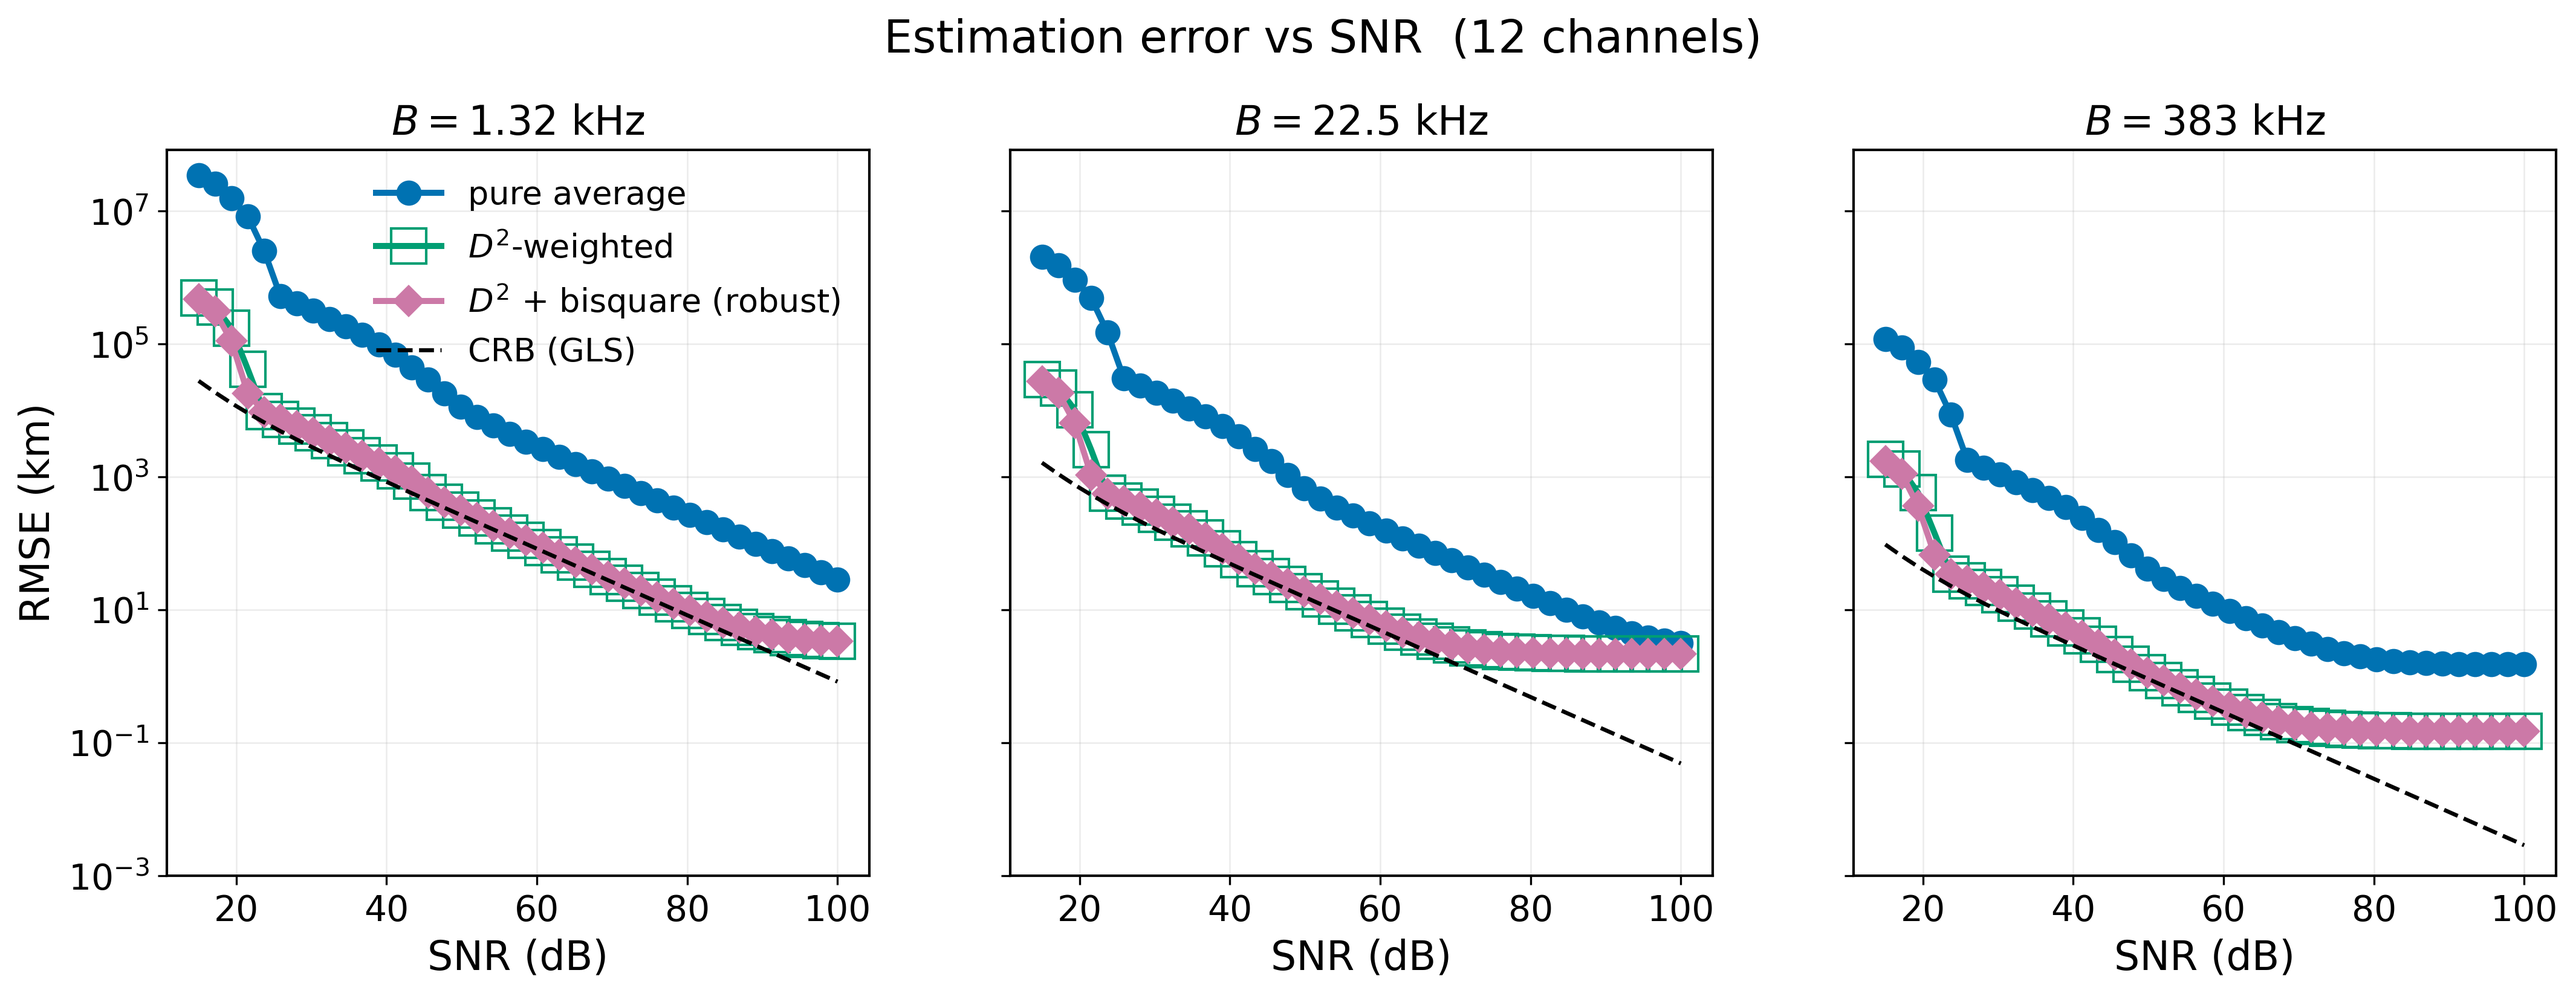
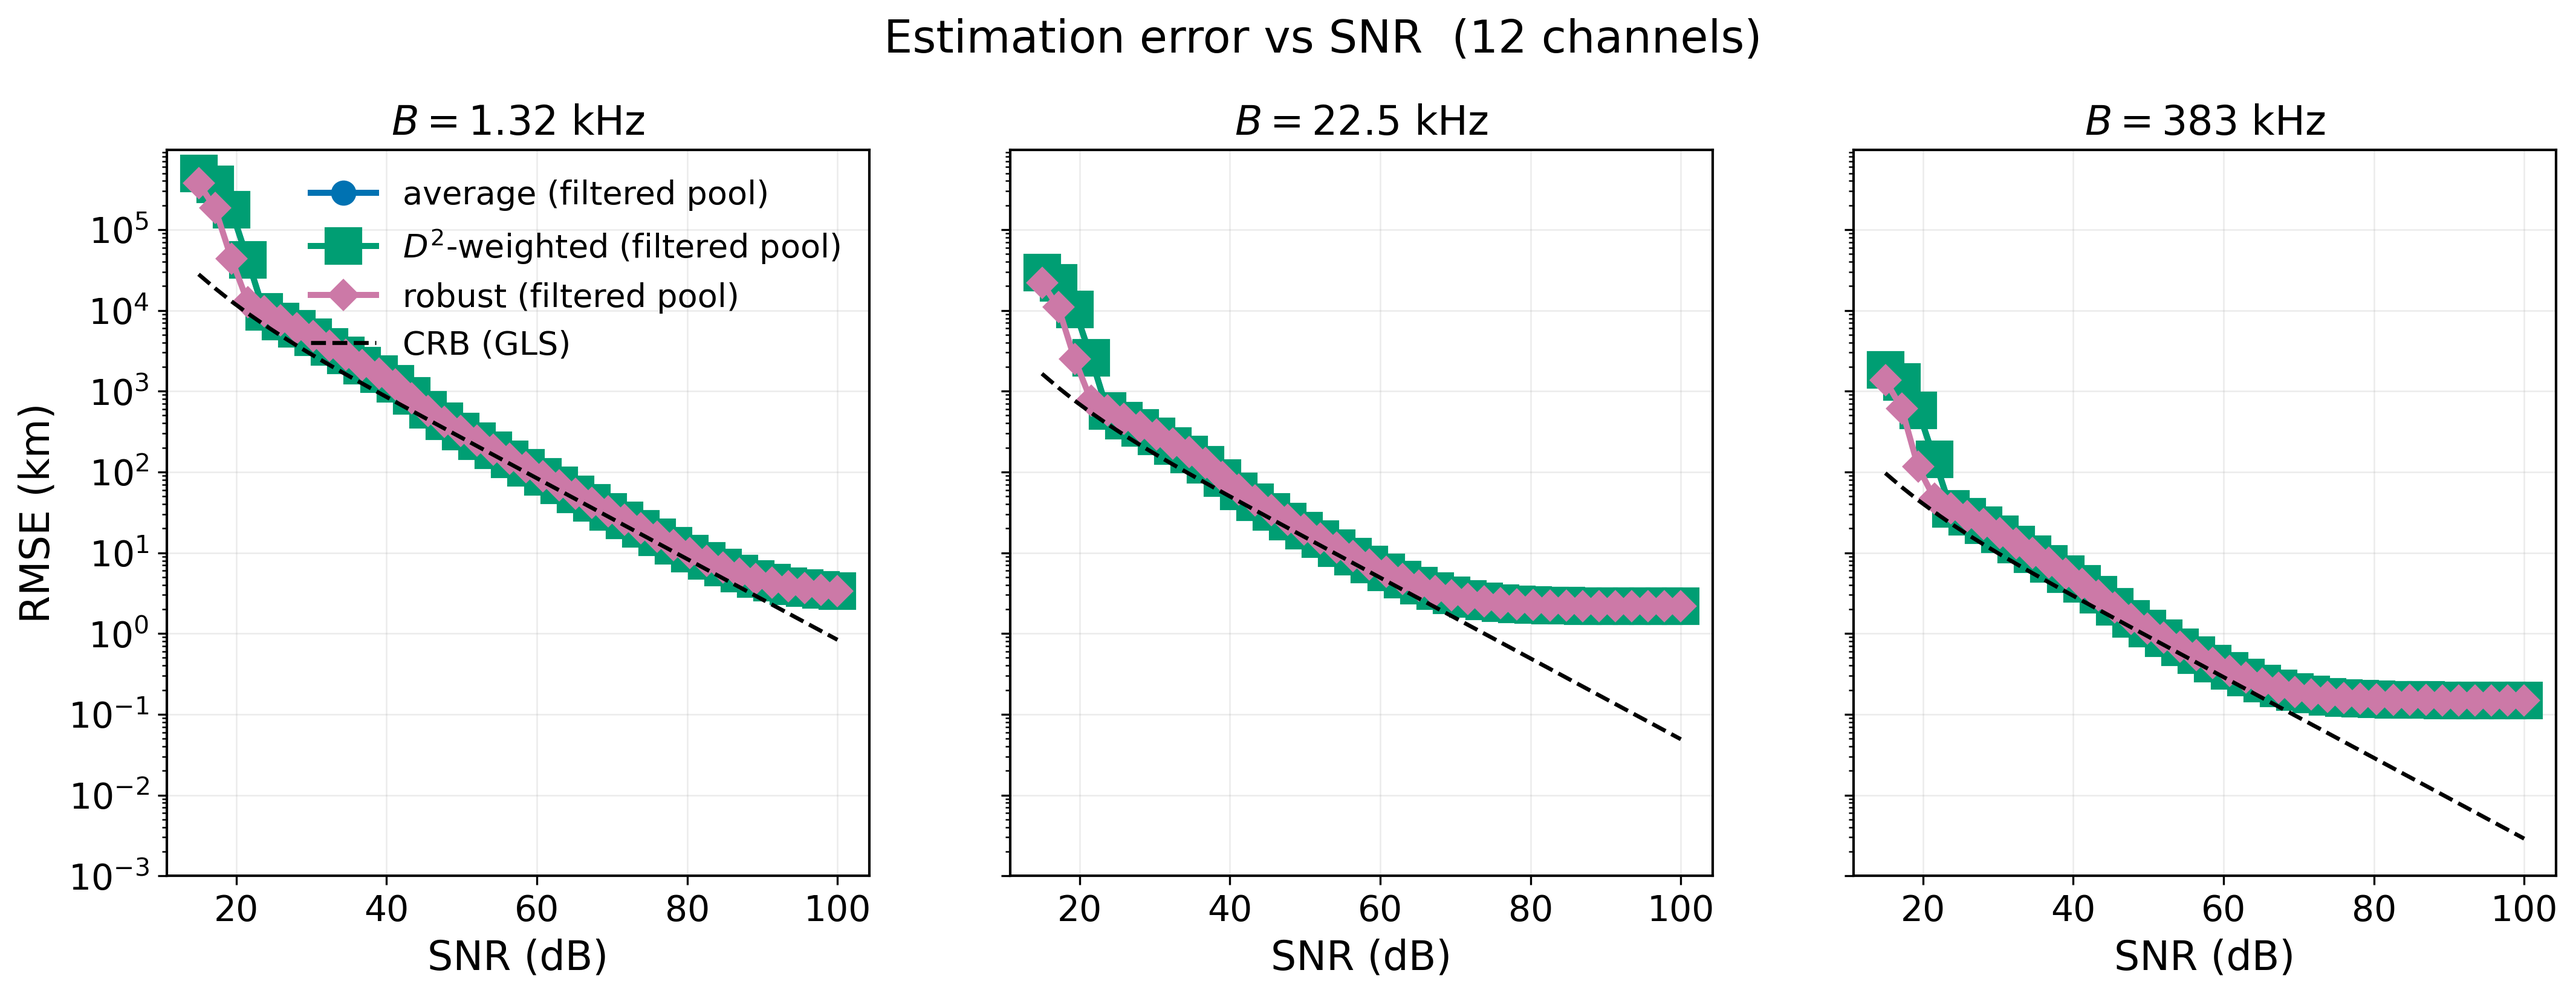
Use filtered-pool estimators in all figures; paper: pool-only Fig2 + F7 mechanism, updated text/captions

diff --git a/scripts/sim_Transient_Localization/estimator_comparison.py b/scripts/sim_Transient_Localization/estimator_comparison.py
@@ -49,16 +49,23 @@ plt.rcParams.update({
     "lines.markersize": 8,
 })
 COL = {"single_worst": "#7F7F7F", "single": "#D55E00", "average": "#0072B2",
-       "disp": "#009E73", "robust": "#CC79A7"}
+       "disp": "#009E73", "robust": "#CC79A7",
+       "average_pool": "#0072B2", "disp_pool": "#009E73",
+       "robust_pool": "#CC79A7"}
 LBL = {"single_worst": "single worst pair", "single": "single best pair",
        "average": "pure average", "disp": r"$D^2$-weighted",
-       "robust": r"$D^2$ + bisquare (robust)"}
+       "robust": r"$D^2$ + bisquare (robust)",
+       "average_pool": "average (filtered pool)",
+       "disp_pool": r"$D^2$-weighted (filtered pool)",
+       "robust_pool": r"robust (filtered pool)"}
 MARK = {"single_worst": "x", "single": "v", "average": "o", "disp": "s",
-        "robust": "D"}
+        "robust": "D",
+        "average_pool": "o", "disp_pool": "s", "robust_pool": "D"}
 ESTS = ["single_worst", "single", "average", "disp", "robust"]
 POOL_ESTS = ["average_pool", "disp_pool", "robust_pool"]
-PLOT_ESTS = ["average", "disp", "robust"]      # curves shown in figures
-MSS = {"average": 9, "disp": 14, "robust": 8}  # per-estimator marker sizes
+PLOT_ESTS = ["average_pool", "disp_pool", "robust_pool"]   # filtered pool only
+MSS = {"average": 9, "disp": 14, "robust": 8,
+       "average_pool": 9, "disp_pool": 14, "robust_pool": 8}
 POOL_ALPHA = 0.25   # keep pairs with D >= POOL_ALPHA * max(D)
 
 TARGET_RMSE = 5.0          # km, used by the design figures (F3, F4)
@@ -174,7 +181,7 @@ def fig1_money(res, counts, BW, SNRS, embed_dir):
 
 def fig2_ratio_maps(res, counts, BW, SNRS, embed_dir):
     key = counts[-1]; r = res[key]
-    dB = 20.0 * np.log10(r["rmse"]["average"] / r["rmse"]["robust"])
+    dB = 20.0 * np.log10(r["rmse"]["average_pool"] / r["rmse"]["robust_pool"])
     fig, (ax0, ax1) = plt.subplots(1, 2, figsize=(15.5, 5.2),
                                    gridspec_kw={"width_ratios": [1.3, 1]})
     X, Y = np.meshgrid(SNRS, BW)
@@ -203,9 +210,9 @@ def fig3_snr_saving(res, counts, BW, SNRS, embed_dir, target=TARGET_RMSE):
     fig, ax = plt.subplots(figsize=(10.5, 6.4))
     for ci, nch in enumerate(use):
         r = res[nch]
-        navg = np.array([snr_for_target(r["rmse"]["average"][ib], SNRS, target)
+        navg = np.array([snr_for_target(r["rmse"]["average_pool"][ib], SNRS, target)
                          for ib in range(len(BW))])
-        for est, ls in [("disp", "--"), ("robust", "-")]:
+        for est, ls in [("disp_pool", "--"), ("robust_pool", "-")]:
             nn = np.array([snr_for_target(r["rmse"][est][ib], SNRS, target)
                            for ib in range(len(BW))])
             d = navg - nn
@@ -218,8 +225,8 @@ def fig3_snr_saving(res, counts, BW, SNRS, embed_dir, target=TARGET_RMSE):
     ax.set_title("SNR saving at RMSE = %.3g km" % target)
     ch_h = [Line2D([], [], color=cmap[i], marker=mk[i % len(mk)], ls="none",
                    ms=11, label="%d ch" % use[i]) for i in range(len(use))]
-    est_h = [Line2D([], [], color="0.3", ls="--", label=LBL["disp"]),
-             Line2D([], [], color="0.3", ls="-", label=LBL["robust"])]
+    est_h = [Line2D([], [], color="0.3", ls="--", label=LBL["disp_pool"]),
+             Line2D([], [], color="0.3", ls="-", label=LBL["robust_pool"])]
     l1 = ax.legend(handles=ch_h, title="channels", loc="lower left",
                    ncol=len(use), fontsize=12, title_fontsize=12)
     ax.add_artist(l1)
@@ -360,7 +367,8 @@ def _load_res(run_dir, replot):
                 mae={k: d["mae_" + k] for k in keys},
                 success={k: d["success_" + k] for k in keys},
                 crb=np.nanmean(d["crb_gls"], axis=0))
-            f5_all[n] = dict(est={k: d["est_" + k] for k in ESTS},
+            est_keys = [k for k in (ESTS + POOL_ESTS) if ("est_" + k) in d.files]
+            f5_all[n] = dict(est={k: d["est_" + k] for k in est_keys},
                              D=d["pair_D_abs"], kbest=int(d["kbest"]),
                              Ztrue=float(d["event_distance_km"]),
                              BW=d["BANDWIDTHS"], SNRS=d["SNRS_dB"], n=n)

diff --git a/paper/CRB_transient_localization_optica.tex b/paper/CRB_transient_localization_optica.tex
@@ -154,41 +154,39 @@ cross-correlation.
 \begin{figure}[t]
 \centering
 \includegraphics[width=0.9\linewidth]{F1_rmse_vs_snr.png}
-\caption{RMSE vs SNR at three bandwidths ($12$ channels), fusing \emph{all}
-channel pairs (no selection). Equal-weight averaging (circles) is far above the
-bound; dispersion-weighted (squares) and robust (diamonds) attain the CRB
-(dashed, ratio $\approx\!1.0$--$1.1$).}
+\caption{RMSE vs SNR at three bandwidths ($12$ channels) using a \emph{filtered}
+pair pool ($D\!\ge\!0.25\max D$). Equal-weight averaging (circles),
+$D^2$-weighting (squares) and robust (diamonds) coincide on the CRB (dashed,
+ratio $\approx\!1.0$--$1.1$): once uninformative pairs are removed the combiner
+is irrelevant.}
 \label{fig:money}
 \end{figure}
 
-\textbf{Naive all-pairs fusion fails} (Fig.~\ref{fig:money}). At high SNR the dispersion-weighted and
-robust rules lie on the CRB ($\mathrm{RMSE}/\mathrm{CRB}\approx1.0$--$1.1$),
-whereas equal-weight averaging over \emph{all} pairs remains
-$10$--$10^{3}\times$ above it. The reason follows from Eq.~(2):
-$\sigma_{Z,ij}\!\propto\!1/D_{ij}$, so low-separation pairs carry almost no
-information, yet equal weighting lets them dominate. The fix is pair selection.
+\textbf{Pair selection attains the CRB} (Fig.~\ref{fig:money}). On the filtered
+pool the three combiners are indistinguishable and all lie on the CRB. The
+essential step is therefore the \emph{selection} of pairs, not the weighting.
 
 \begin{figure}[t]
 \centering
 \includegraphics[width=\linewidth]{F7_pool_effect.png}
-\caption{Pair selection is the essential step. Left: RMSE vs SNR ($12$ ch) for
-equal-weight averaging over \emph{all} pairs (circles) and over a
-\emph{filtered pool} with $D\!\ge\!0.25\max D$ (squares); on the filtered pool,
-equal averaging, $D^2$-weighting and robust all coincide on the CRB. Right:
-residual SNR saving of weighting over averaging --- $\sim\!30$\,dB on all pairs
-but $\approx 0$ after filtering. Dispersion weighting is the soft-filter
-equivalent of an explicit threshold.}
+\caption{Why selection matters. Left: RMSE vs SNR ($12$ ch) for equal-weight
+averaging over \emph{all} pairs (circles) versus a \emph{filtered pool}
+($D\!\ge\!0.25\max D$, squares); on the pool, equal averaging, $D^2$ and robust
+all coincide on the CRB. Right: the SNR penalty of fusing all pairs is
+$\sim\!30$\,dB and vanishes ($\approx 0$) after filtering --- dispersion
+weighting is the soft-filter equivalent of the threshold.}
 \label{fig:pool}
 \end{figure}
 
-\textbf{Pair selection, not weighting, is what matters} (Fig.~\ref{fig:pool}).
-Restricting the pool to well-separated pairs ($D\ge 0.25\max D$) removes the
-uninformative pairs and the naive average drops onto the CRB; the residual
-benefit of dispersion weighting is then $\approx 0$\,dB. In other words,
-weighting and hard filtering are two implementations of the same idea ---
-discard low-separation pairs. Because the retained pairs have similar
-precision, \emph{any} sensible combination reaches the bound, which makes the
-proposed scheme calibration-free and robust to the exact weighting.
+\textbf{Uninformative pairs destroy naive fusion} (Fig.~\ref{fig:pool}). Fusing
+\emph{all} pairs, the equal average stays $10$--$10^{3}\times$ above the CRB:
+from Eq.~(2), $\sigma_{Z,ij}\!\propto\!1/D_{ij}$, so low-separation pairs carry
+almost no information yet dominate an equal-weight mean. Restricting to
+well-separated pairs removes them and the average drops onto the CRB; the
+residual benefit of weighting is then $\approx 0$\,dB. Weighting and hard
+filtering are thus two implementations of the same idea --- discard
+low-separation pairs --- which makes the recipe calibration-free and robust to
+the exact combining rule.
 
 \textbf{Design rules.} (i)~At high SNR the RMSE scales as $1/(\sqrt{\SNR}\,B)$
 (Eq.~(2)), so the perturbation \emph{bandwidth is as fundamental as SNR}.
